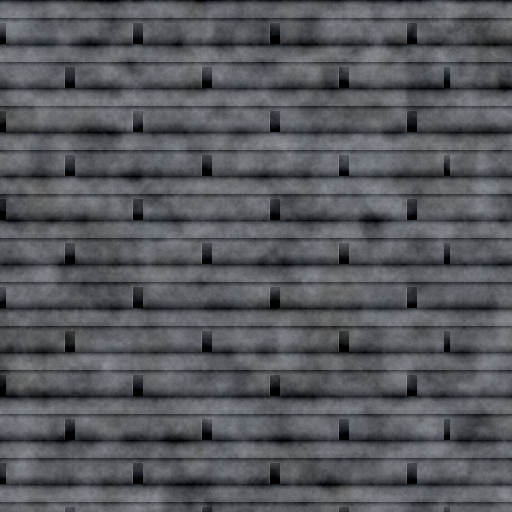
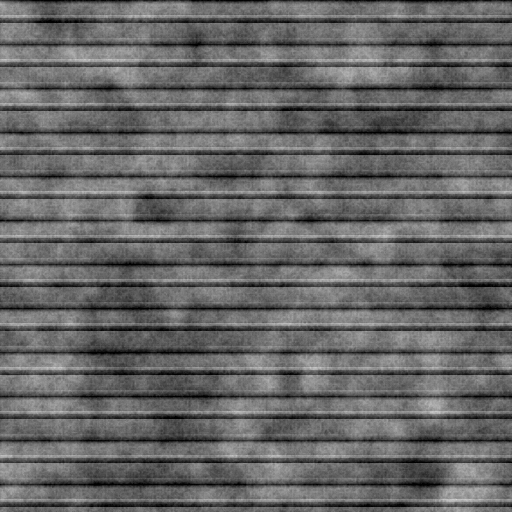
Set color strength default to 100%; architectural shingle texture redesign
- textureColorStrength default 50% → 100% (new projects, customer view,
  localStorage fallback, slider display); gradient-map now fully colorizes
  the texture for unmistakably distinct catalog colors

- architectural.png regenerated with proper dimensional shingle anatomy:
    [0-4]   deep overlap shadow (dark, never directly visible)
    [4-15]  laminate nail-hem zone (slightly lighter backing)
    [15-18] ★ laminate highlight — raised butt-edge catches light
    [18-23] ★ laminate shadow   — defining dark line of dimensional look
    [23-38] exposed tab body — full granule field with soft wide variation
    [38-44] bottom depth shadow — physical thickness of shingle
  No uniform slot cutouts (those create the 3-tab look); instead a wide
  cosine wave (256px) gives subtle tab variation without looking regular.
  Granule field uses domain-warped fBm + turbulence for organic patches.
  Luma range 0-212, avg 102 — full contrast for gradient mapping.

diff --git a/app/page.tsx b/app/page.tsx
@@ -1691,7 +1691,7 @@ export default function Page() {
         activeRoofId: photoData.roofs[0]?.id ?? "",
         shingleColor: customerShingleColor,
         shingleSelection: customerShingleSelection,
-        textureColorStrength: 50,
+        textureColorStrength: 100,
         showGuidesDuringInstall: false,
         showEditHandles: false,
         realisticMode: false,
@@ -1918,7 +1918,7 @@ export default function Page() {
             realisticMode: p.realisticMode ?? false,
             realisticStrength: p.realisticStrength ?? 0.6,
             shingleSelection: p.shingleSelection ?? shingleColorToSelection(p.shingleColor ?? "Barkwood"),
-            textureColorStrength: p.textureColorStrength ?? 50,
+            textureColorStrength: p.textureColorStrength ?? 100,
           }));
           const savedActiveId = localStorage.getItem("roofviz_v3_active");
           const restoredId = migrated.find((p) => p.id === savedActiveId)?.id ?? migrated[0].id;
@@ -2449,7 +2449,7 @@ export default function Page() {
       activeRoofId: roof1.id,
       shingleColor: "Barkwood",
       shingleSelection: { manufacturerId: "gaf", lineId: "hdz", colorId: "barkwood" },
-      textureColorStrength: 50,
+      textureColorStrength: 100,
       showGuidesDuringInstall: false,
       showEditHandles: false,
       realisticMode: false,
@@ -3060,7 +3060,7 @@ export default function Page() {
       return applyColorTint(
         shingleBaseImg,
         resolveShinglePalette(active.shingleSelection),
-        (active.textureColorStrength ?? 50) / 100,
+        (active.textureColorStrength ?? 100) / 100,
       );
     }
     // No image → fall back to procedural tile
@@ -5320,13 +5320,13 @@ export default function Page() {
                     <div style={{ marginTop: 10 }}>
                       <div style={{ display: "flex", justifyContent: "space-between", alignItems: "center", ...fieldLabel as object, marginBottom: 2 }}>
                         <span>Color Strength</span>
-                        <span style={{ fontSize: 10, color: "#64748b", fontWeight: 600 }}>{active.textureColorStrength ?? 50}%</span>
+                        <span style={{ fontSize: 10, color: "#64748b", fontWeight: 600 }}>{active.textureColorStrength ?? 100}%</span>
                       </div>
                       <input
                         type="range"
                         min={0}
                         max={100}
-                        value={active.textureColorStrength ?? 50}
+                        value={active.textureColorStrength ?? 100}
                         onChange={(e) => patchActive((p) => ({ ...p, textureColorStrength: Number(e.target.value) }))}
                         style={{ width: "100%", accentColor: "#2563eb" }}
                       />
